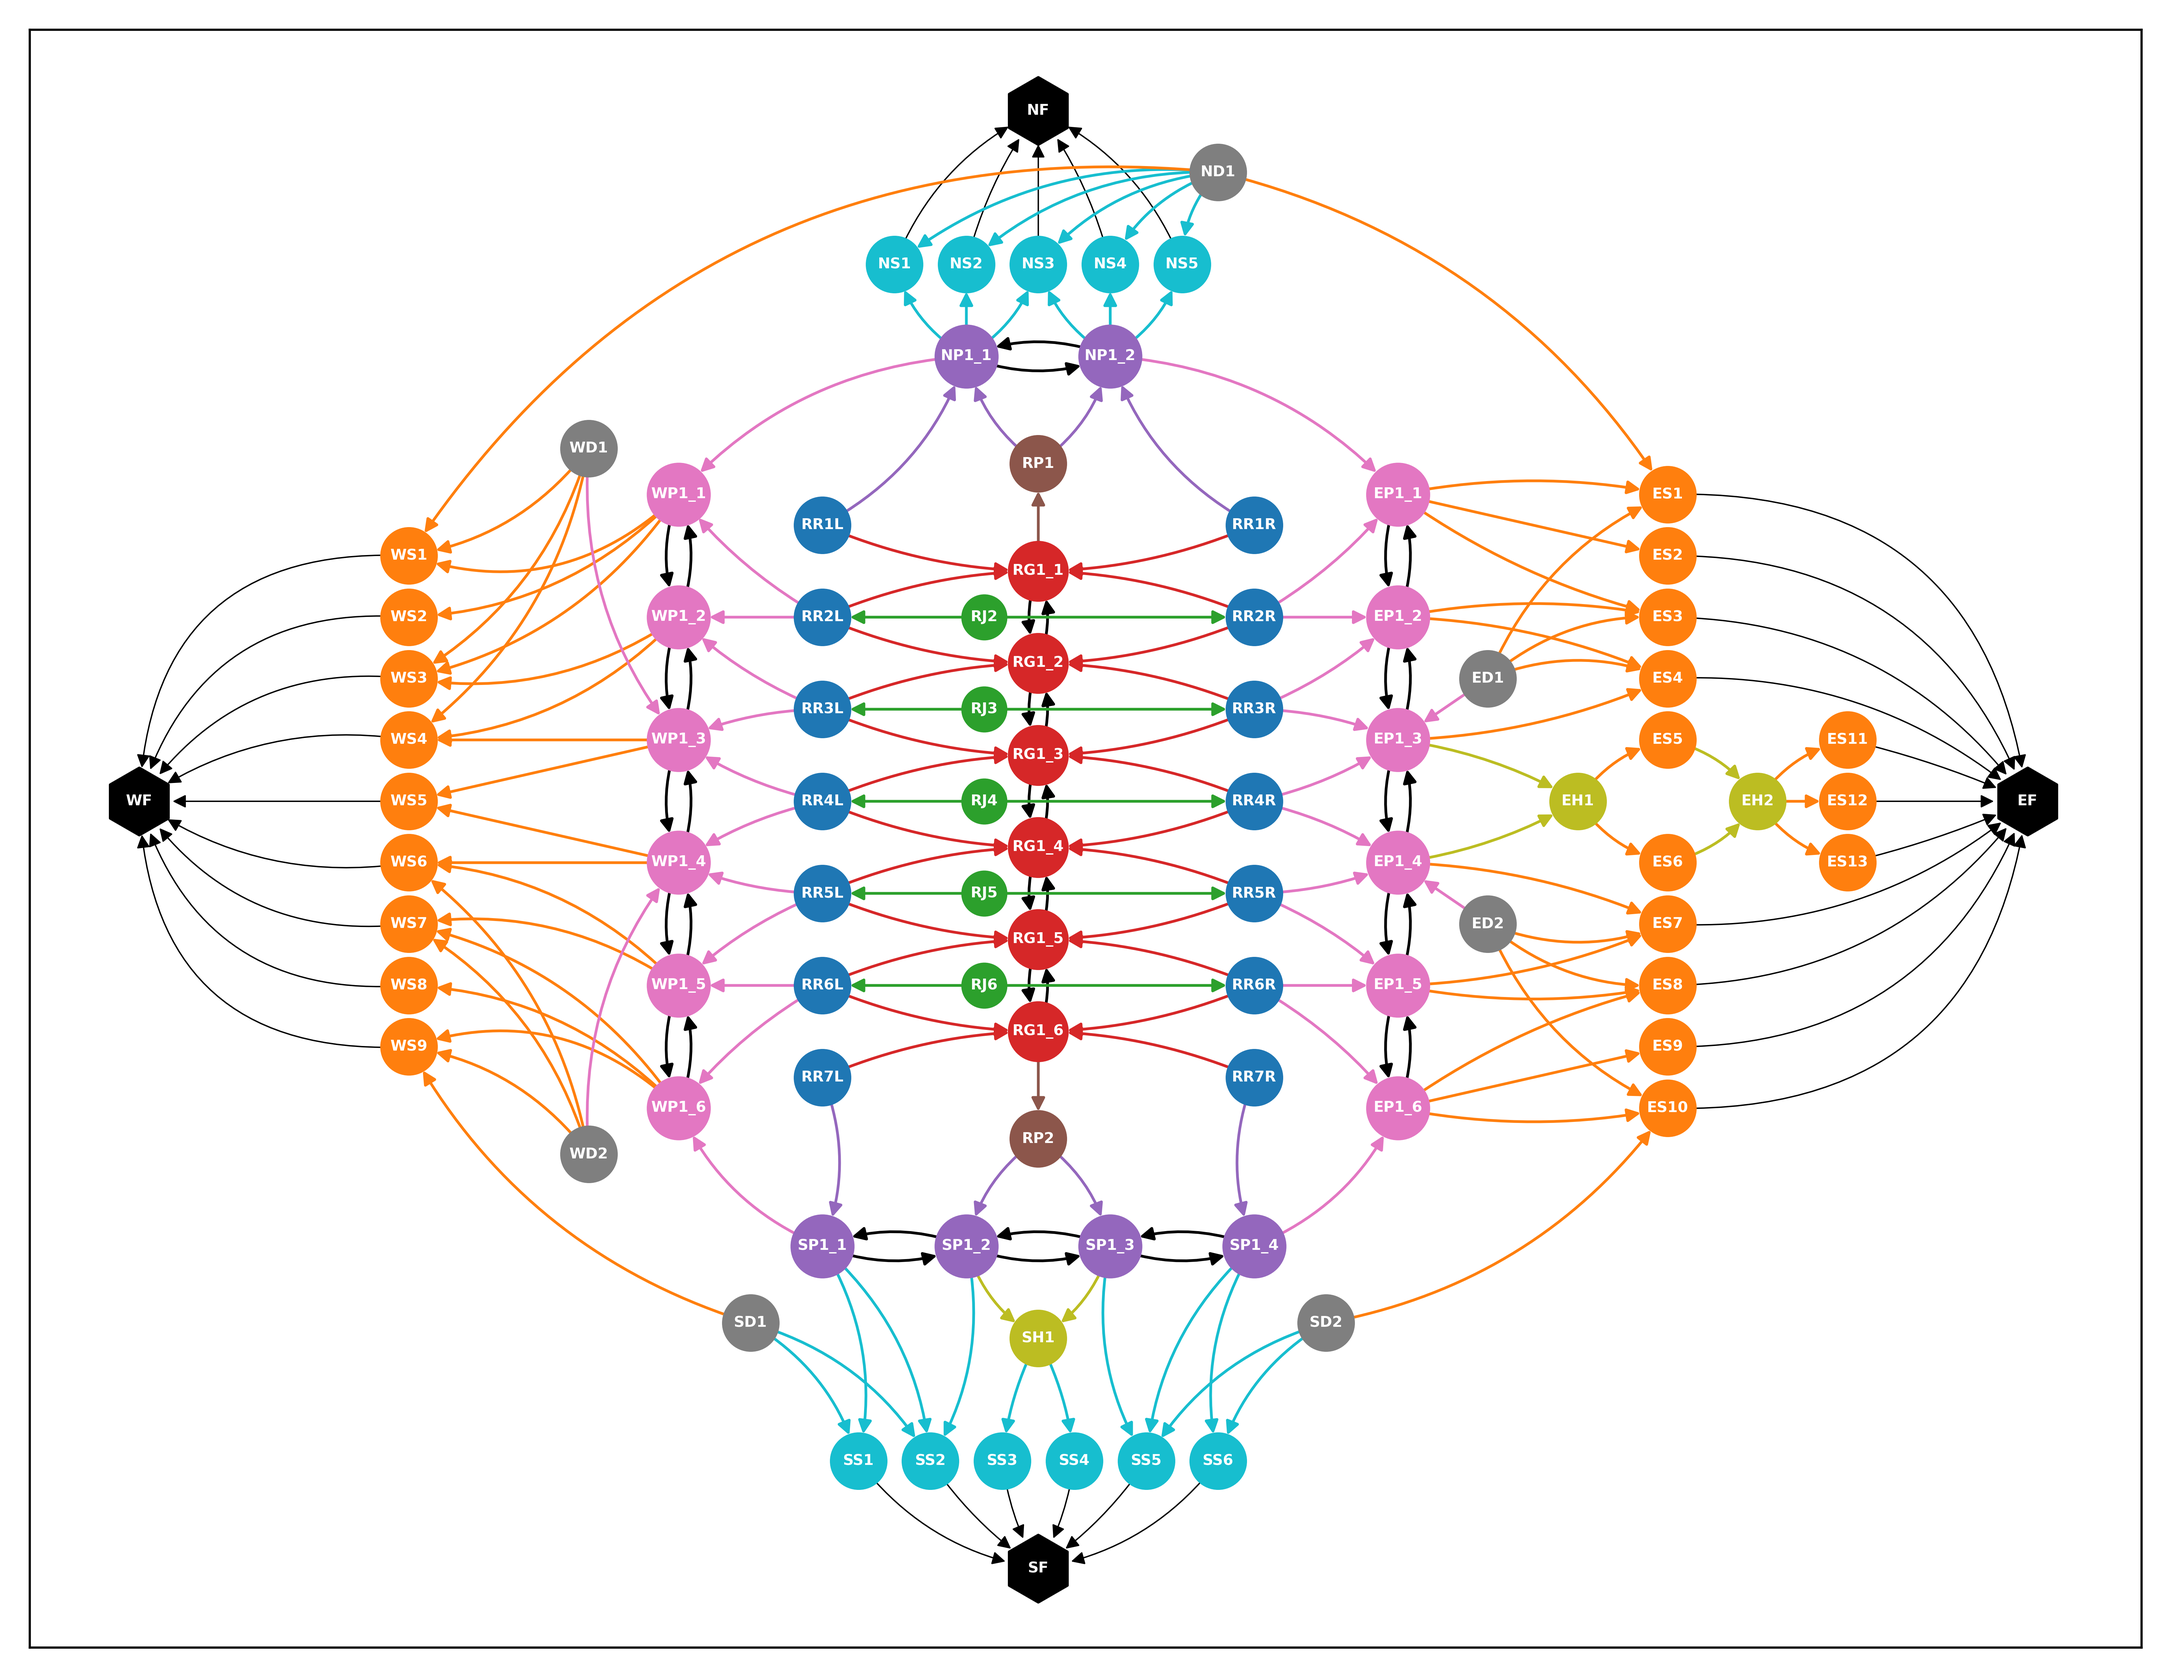
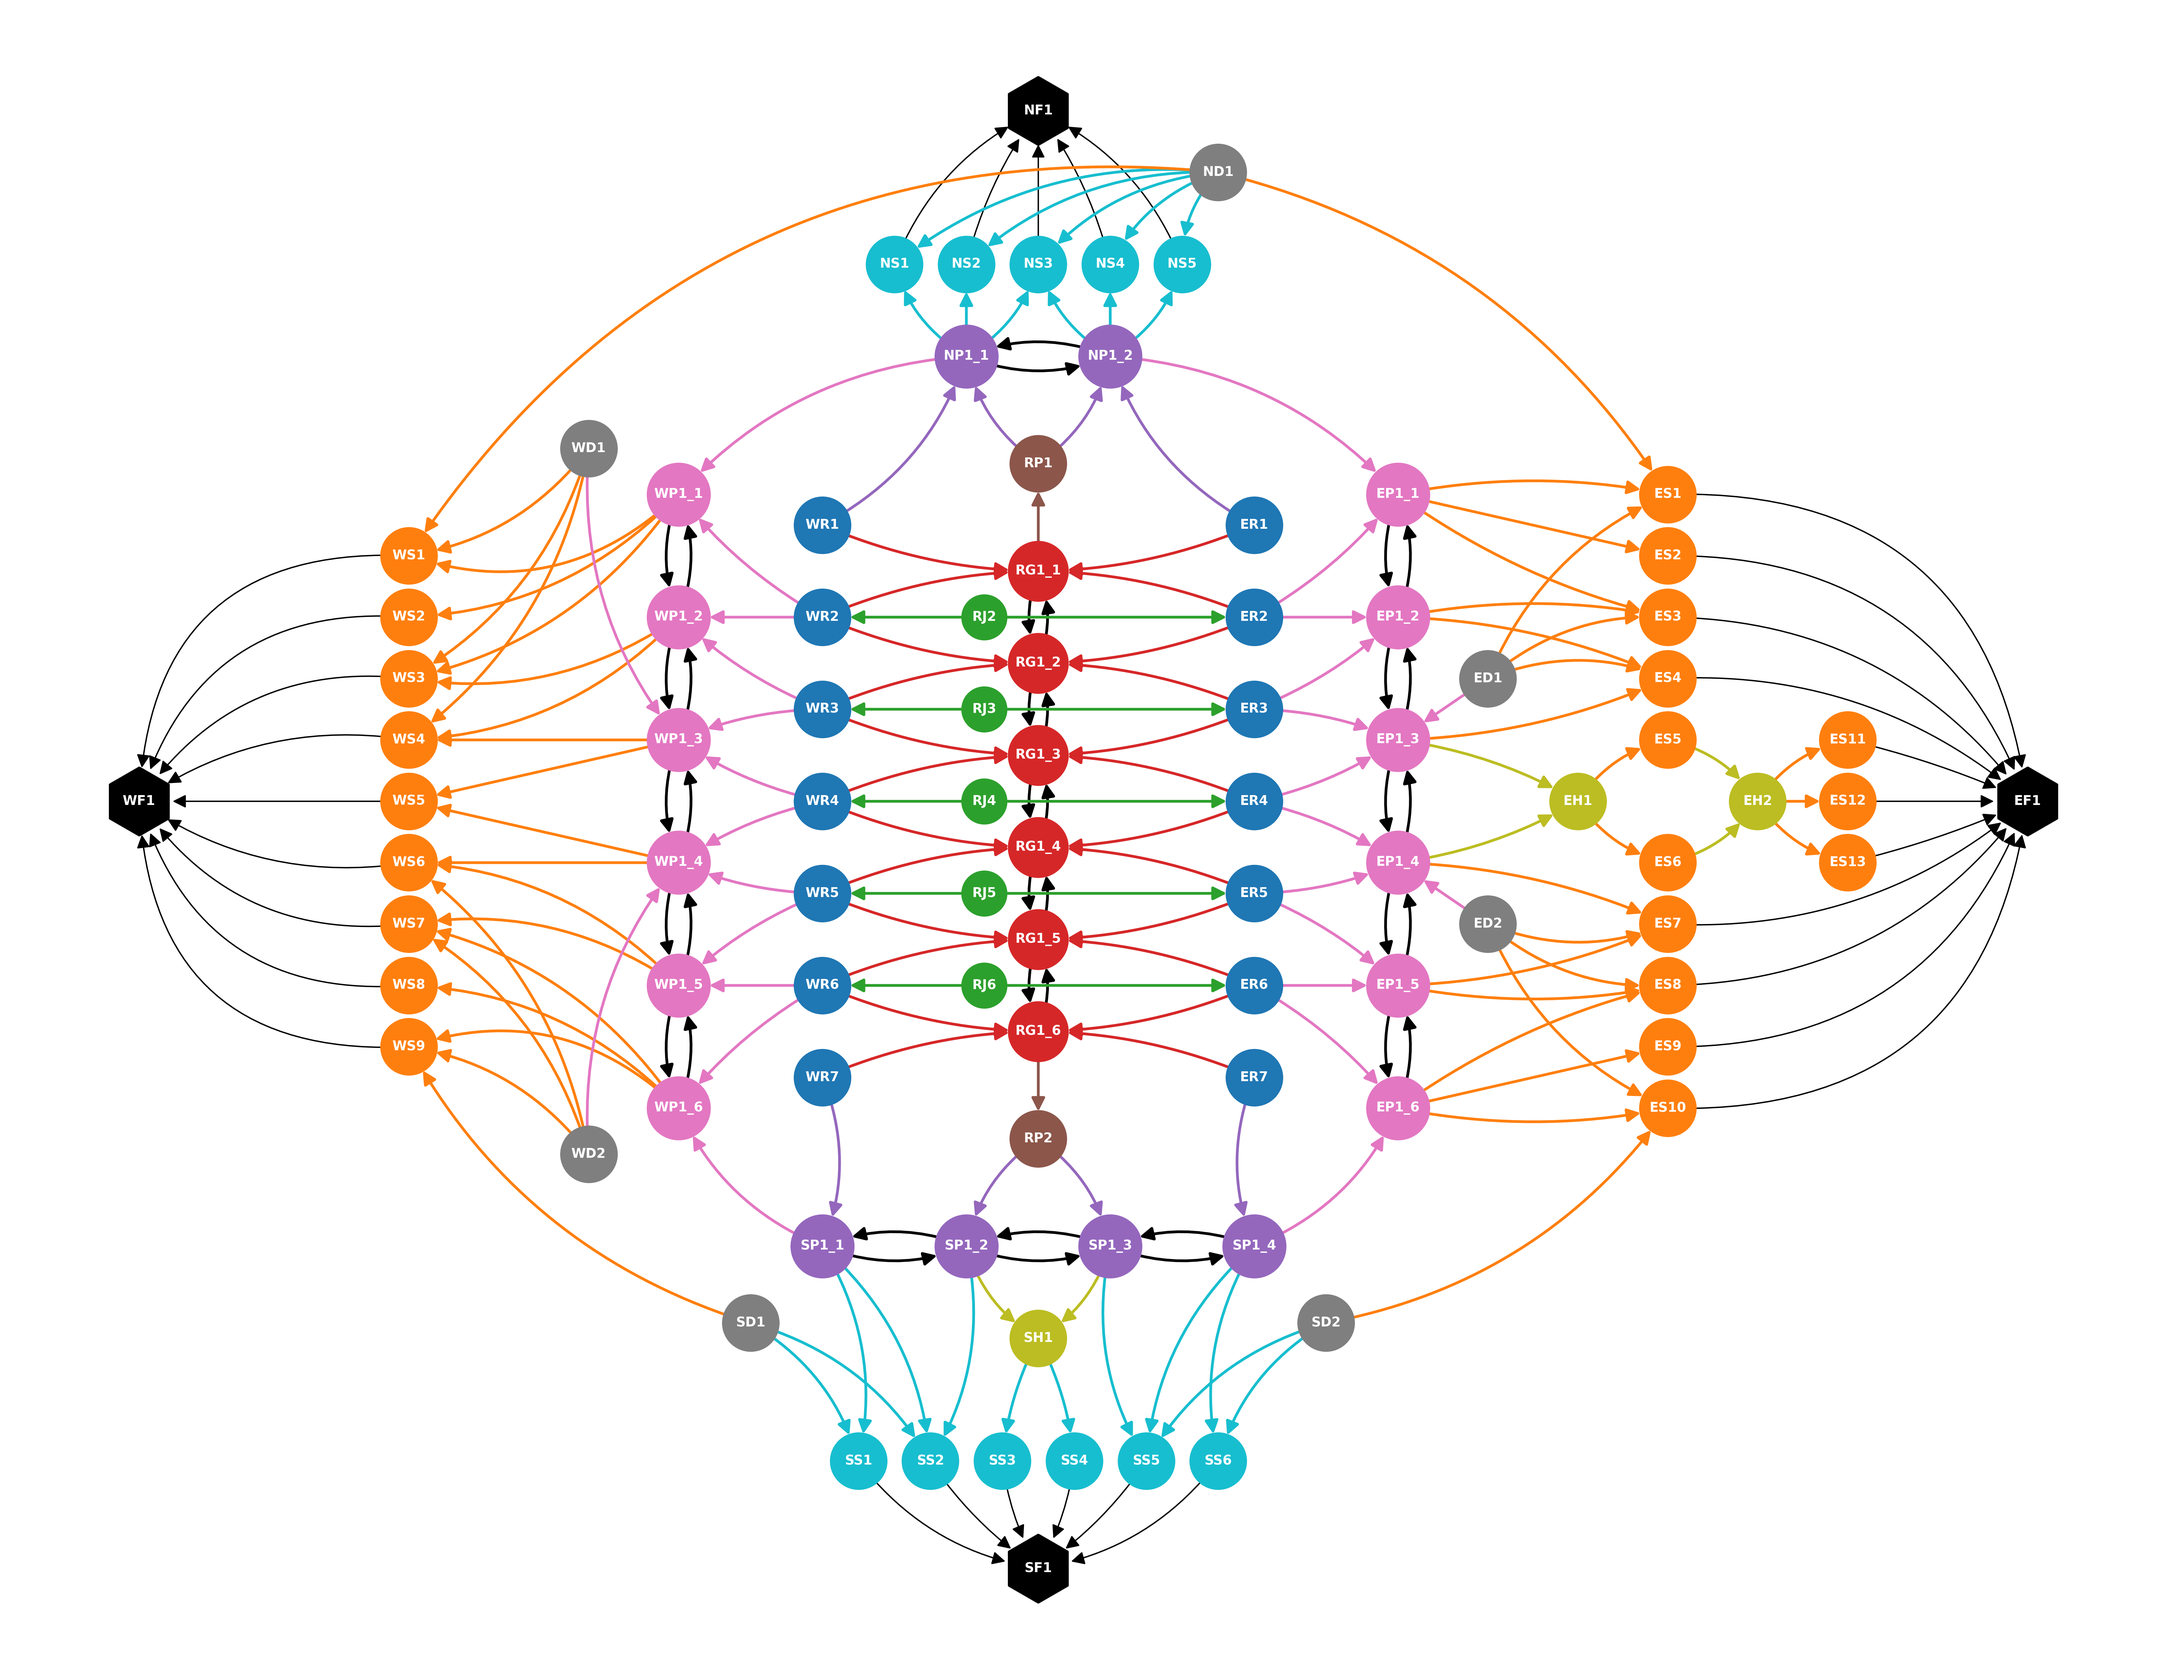
updated names for roof rafter, and bottom plate

diff --git a/src/build.py b/src/build.py
@@ -21,7 +21,6 @@ def add_edges(G, edge_data):
 
 
 def get_node_pos(G, scale=1):
-
     scale = [scale, scale * 2]
 
     pos_fixed = {}
@@ -31,8 +30,7 @@ def get_node_pos(G, scale=1):
     return pos_fixed
 
 
-def build_full_graph(folder, filename, scale=1, draw=False, show=False):
-
+def build_full_graph(folder_in, filename, folder_out, scale=1, draw=False, show=False):
     G = nx.empty_graph(create_using=nx.MultiDiGraph())
 
     data_in_list = [
@@ -44,8 +42,7 @@ def build_full_graph(folder, filename, scale=1, draw=False, show=False):
     ]
 
     for f in data_in_list:
-
-        edge_data, node_data = read_json(folder, f)
+        edge_data, node_data = read_json(folder_in, f)
 
         add_nodes(G, node_data)
         add_edges(G, edge_data)
@@ -54,7 +51,7 @@ def build_full_graph(folder, filename, scale=1, draw=False, show=False):
         draw_graph(
             G=G,
             pos_fixed=get_node_pos(G, scale),
-            filename="P2_graphs_out/{}".format(filename),
+            filename="{}/{}".format(folder_out, filename),
             scale=scale,
             plt_show=show,
         )
@@ -73,11 +70,9 @@ def _add_in_extra_edge(G, K_combo, Ks):
     # first subgraph
     for K in Ks:
         for n1 in K.nodes():
-
             # second subgraph
             for M in Ks:
                 for n2 in M.nodes():
-
                     # if in original but not in combo
                     if G.has_edge(n1, n2) and not K_combo.has_edge(n1, n2):
                         print("missing")
@@ -89,7 +84,6 @@ def _add_in_extra_edge(G, K_combo, Ks):
 
 
 def build_member_subgraph(G, rm, scale, draw=False, show=False):
-
     G_copy = G.copy()
 
     print("\n1. SUBGRAPH CALC FOR MEMBER: {}".format(rm))
@@ -109,7 +103,6 @@ def build_member_subgraph(G, rm, scale, draw=False, show=False):
 
 
 def build_joined_subgraph(G, Ks, rms, nodes_check_support, scale, draw=False, show=False):
-
     all_subgraphs = copy.deepcopy(Ks)
     K_joined = all_subgraphs.pop(0)
 

diff --git a/main.py b/main.py
@@ -38,41 +38,42 @@ def calculate_sequence(K):
 
 if __name__ == "__main__":
     G = build_full_graph(
-        folder="P2_data_in",
+        folder_in="P1_data_in",
+        folder_out="P1_graphs_out",
         filename="_full_structure.png",
         scale=1,
-        draw=False,
-        show=False,
-    )
-
-    remove_members = ["SP1_2", "SP1_3", "SP1_4", "ES10"]
-    # remove_members = [ "ES10"]
-    subgraphs = []
-    nodes_check_support = []
-
-    for remove_member in remove_members:
-        K, n = build_member_subgraph(
-            G=G,
-            rm=remove_member,
-            scale=1.2,
-            draw=True,
-            show=True,
-        )
-
-        subgraphs.append(K)
-        nodes_check_support.extend(n)
-
-    nodes_check_support = list(set(nodes_check_support))
-
-    print(subgraphs)
-    print(nodes_check_support)
-
-    build_joined_subgraph(
-        G=G,
-        Ks=subgraphs,
-        rms=remove_members,
-        nodes_check_support=nodes_check_support,
-        scale=1.2,
         draw=True,
-        show=False,
+        show=True,
     )
+
+    # remove_members = ["SP1_2", "SP1_3", "SP1_4", "ES10"]
+    # remove_members = [ "SS1"]
+    # subgraphs = []
+    # nodes_check_support = []
+
+    # for remove_member in remove_members:
+    #     K, n = build_member_subgraph(
+    #         G=G,
+    #         rm=remove_member,
+    #         scale=1.2,
+    #         draw=True,
+    #         show=True,
+    #     )
+
+    #     subgraphs.append(K)
+    #     nodes_check_support.extend(n)
+
+    # nodes_check_support = list(set(nodes_check_support))
+
+    # print(subgraphs)
+    # print(nodes_check_support)
+
+    # build_joined_subgraph(
+    #     G=G,
+    #     Ks=subgraphs,
+    #     rms=remove_members,
+    #     nodes_check_support=nodes_check_support,
+    #     scale=1.2,
+    #     draw=True,
+    #     show=False,
+    # )
